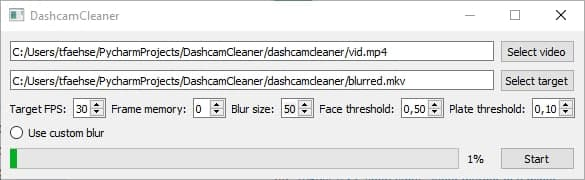
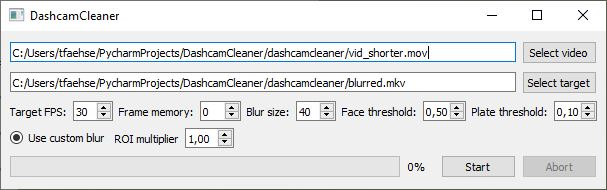
Enable enlarging blurred regions in the UI - functionality is NOT there yet!

diff --git a/dashcamcleaner/ui_mainwindow.py b/dashcamcleaner/ui_mainwindow.py
@@ -17,7 +17,7 @@ class Ui_MainWindow(object):
     def setupUi(self, MainWindow):
         if not MainWindow.objectName():
             MainWindow.setObjectName(u"MainWindow")
-        MainWindow.resize(603, 158)
+        MainWindow.resize(605, 161)
         self.centralwidget = QWidget(MainWindow)
         self.centralwidget.setObjectName(u"centralwidget")
         self.verticalLayout = QVBoxLayout(self.centralwidget)
@@ -119,6 +119,24 @@ class Ui_MainWindow(object):
 
         self.horizontalLayout_4.addWidget(self.radio_custom_blur)
 
+        self.label_6 = QLabel(self.centralwidget)
+        self.label_6.setObjectName(u"label_6")
+
+        self.horizontalLayout_4.addWidget(self.label_6)
+
+        self.double_spin_roimulti = QDoubleSpinBox(self.centralwidget)
+        self.double_spin_roimulti.setObjectName(u"double_spin_roimulti")
+        self.double_spin_roimulti.setMinimum(0.800000000000000)
+        self.double_spin_roimulti.setMaximum(10.000000000000000)
+        self.double_spin_roimulti.setSingleStep(0.050000000000000)
+        self.double_spin_roimulti.setValue(1.000000000000000)
+
+        self.horizontalLayout_4.addWidget(self.double_spin_roimulti)
+
+        self.horizontalSpacer = QSpacerItem(40, 20, QSizePolicy.Expanding, QSizePolicy.Minimum)
+
+        self.horizontalLayout_4.addItem(self.horizontalSpacer)
+
 
         self.verticalLayout.addLayout(self.horizontalLayout_4)
 
@@ -138,6 +156,7 @@ class Ui_MainWindow(object):
 
         self.button_abort = QPushButton(self.centralwidget)
         self.button_abort.setObjectName(u"button_abort")
+        self.button_abort.setEnabled(False)
 
         self.horizontalLayout_5.addWidget(self.button_abort)
 
@@ -161,6 +180,7 @@ class Ui_MainWindow(object):
         self.label_4.setText(QCoreApplication.translate("MainWindow", u"Face threshold:", None))
         self.label_5.setText(QCoreApplication.translate("MainWindow", u"Plate threshold:", None))
         self.radio_custom_blur.setText(QCoreApplication.translate("MainWindow", u"Use custom blur", None))
+        self.label_6.setText(QCoreApplication.translate("MainWindow", u"ROI multiplier", None))
         self.button_start.setText(QCoreApplication.translate("MainWindow", u"Start", None))
         self.button_abort.setText(QCoreApplication.translate("MainWindow", u"Abort", None))
     # retranslateUi
